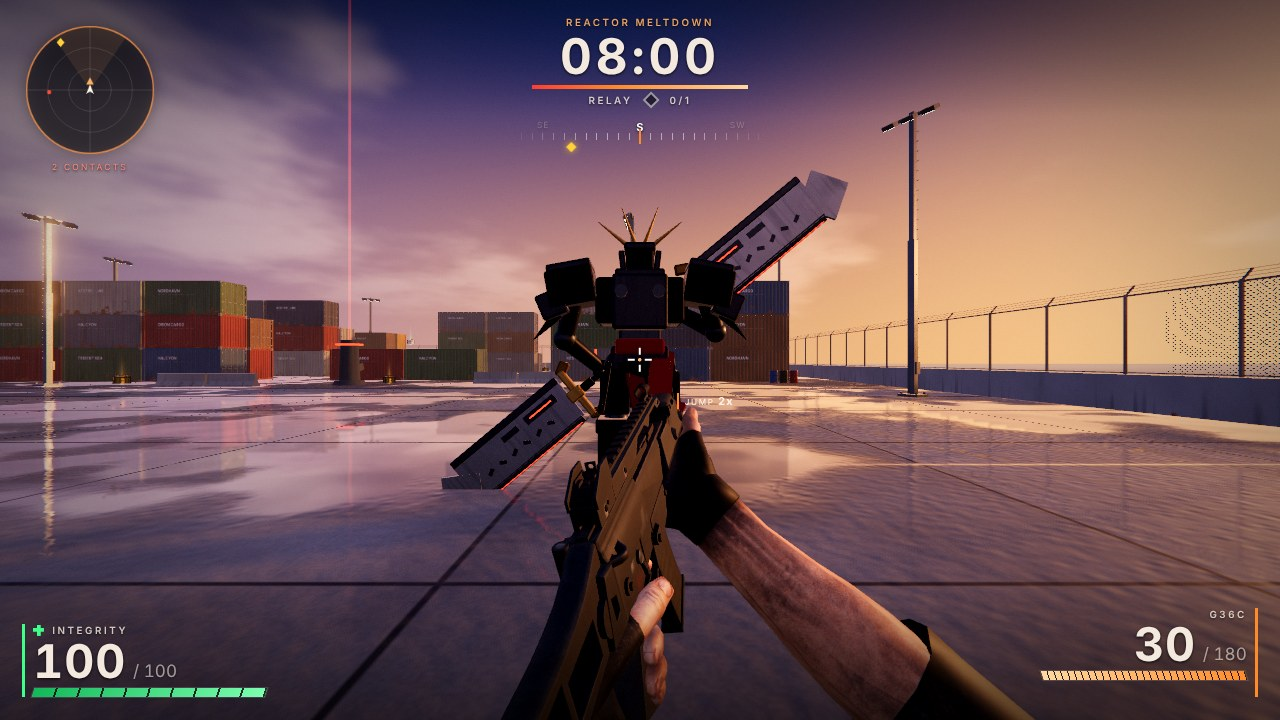
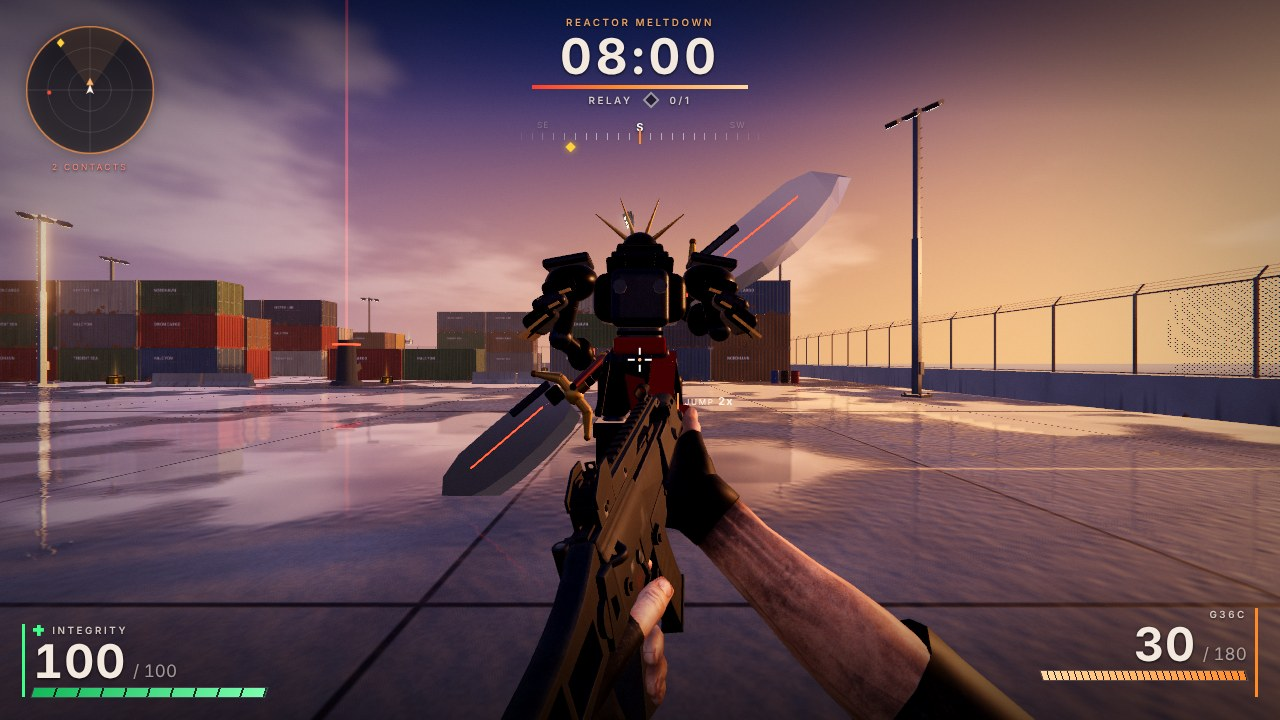
Samurai model pass: knife-section blades with ground bevels, rounder armour, layered shoulder plates, katana
Claude-Session: https://claude.ai/code/session_019Cd4QJJQAj7MtqAtZQe3gZ

diff --git a/src/enemies/samurai/model.ts b/src/enemies/samurai/model.ts
@@ -1,4 +1,4 @@
-import { BufferGeometry, Matrix4, Vector3 } from 'three';
+import { BufferAttribute, BufferGeometry, Matrix4, Vector3 } from 'three';
 import { box, cylX, Parts, rod, sphere } from '../duck/modelKit';
 import { SAMURAI } from './tunables';
 
@@ -16,7 +16,9 @@ export const SAMURAI_COLORS = {
   goldDark: 0x8a6a2a,
   red: 0x8c1717,
   redDark: 0x5c0f10,
-  steel: 0xa3a9b2,
+  steel: 0xb4bcc6,
+  /** Ground cutting bevel: almost white so it catches the sky. */
+  edge: 0xf2f6fa,
   steelDark: 0x4a4f58,
   wood: 0x2c1c13,
   glow: 0xffffff,
@@ -32,6 +34,8 @@ export interface SamuraiModel {
   hip: { x: number; y: number };
   /** Polearm authored along X around its grip centre. */
   weapon: BufferGeometry;
+  /** Both blades: mirror-polished, own material. */
+  blade: BufferGeometry;
   weaponGlow: BufferGeometry;
   /** Grip centre in the body frame and the rest angle about Z (right end up). */
   grip: Vector3;
@@ -49,39 +53,103 @@ function leg(side: 1 | -1, armor: Parts): void {
   const x = side * HIP_X;
   armor.add(sphere(0.17, 10, 8), C.gunmetal, [x, HIP_Y, 0]);
   armor.add(rod([x, HIP_Y, 0], [x + side * 0.03, 0.98, -0.06], 0.14, 0.12, 8), C.gunmetal);
-  armor.add(box(0.34, 0.5, 0.36, 0.03), C.black, [x + side * 0.04, 1.3, -0.05], [0.06, 0, 0]);
-  armor.add(box(0.2, 0.2, 0.1, 0.02), C.grey, [x + side * 0.03, 1.0, -0.24]);
+  armor.add(box(0.36, 0.52, 0.38, 0.12), C.black, [x + side * 0.04, 1.3, -0.05], [0.06, 0, 0]);
+  armor.add(sphere(0.14, 10, 8), C.grey, [x + side * 0.03, 0.98, -0.2], [0, 0, 0], [1, 1.15, 0.6]);
+  armor.add(rod([x + side * 0.03, 1.02, -0.26], [x + side * 0.03, 1.2, -0.42], 0.05, 0.004, 5), C.gold);
   armor.add(sphere(0.15, 10, 8), C.steelDark, [x + side * 0.03, 0.96, -0.04]);
   armor.add(rod([x + side * 0.03, 0.96, -0.04], [x + side * 0.04, 0.3, 0.02], 0.11, 0.1, 8), C.gunmetal);
-  armor.add(box(0.36, 0.7, 0.42, 0.03), C.black, [x + side * 0.05, 0.6, 0], [-0.04, 0, 0]);
+  armor.add(box(0.36, 0.7, 0.42, 0.13), C.black, [x + side * 0.05, 0.6, 0], [-0.04, 0, 0]);
   armor.add(box(0.4, 0.16, 0.46, 0.02), C.gunmetal, [x + side * 0.05, 0.92, 0]);
   armor.add(box(0.26, 0.5, 0.08, 0.02), C.grey, [x + side * 0.05, 0.6, -0.23]);
   armor.add(box(0.4, 0.2, 0.44, 0.03), C.gunmetal, [x + side * 0.05, 0.3, 0.02]);
-  armor.add(box(0.38, 0.2, 0.66, 0.04), C.black, [x + side * 0.05, 0.1, -0.1]);
+  armor.add(box(0.38, 0.2, 0.66, 0.08), C.black, [x + side * 0.05, 0.1, -0.1]);
   armor.add(box(0.3, 0.12, 0.2, 0.02), C.grey, [x + side * 0.05, 0.08, -0.46]);
   armor.add(box(0.26, 0.24, 0.16, 0.03), C.gunmetal, [x + side * 0.05, 0.14, 0.26]);
 }
 
-function blade(p: Parts, glow: Parts, dir: 1 | -1): void {
+/** Blade stations along its length: x, spine height, edge height, thickness. The last one is the point. */
+const STATIONS: ReadonlyArray<readonly [number, number, number, number]> = [
+  [0.0, 0.3, -0.26, 0.085],
+  [0.18, 0.34, -0.33, 0.08],
+  [0.6, 0.35, -0.385, 0.072],
+  [1.05, 0.35, -0.4, 0.062],
+  [1.45, 0.34, -0.37, 0.05],
+  [1.78, 0.25, -0.3, 0.036],
+  [2.0, 0.02, -0.19, 0.018],
+  [2.12, -0.13, -0.13, 0.0],
+];
+/** Width of the ground bevel above the cutting edge (m). */
+const BEVEL = 0.17;
+
+/**
+ * Glaive blade as a real knife section instead of a slab: flat spine, two flats, and two ground
+ * bevels that meet in a zero-thickness cutting edge; the section shrinks to a point at the tip.
+ * Returns the flats (with the spine) and the bevels separately so they can be coloured apart.
+ * Faces are not shared between quads, so every facet stays crisp.
+ */
+function bladeGeometry(dir: 1 | -1, x0: number): { flats: BufferGeometry; bevels: BufferGeometry } {
+  const flats: number[] = [];
+  const bevels: number[] = [];
+  type P = [number, number, number];
+  const ring = (st: readonly [number, number, number, number]): P[] => {
+    const [x, top, edge, t] = st;
+    const mid = Math.min(top, edge + BEVEL);
+    const px = x0 + dir * x;
+    // spine +z, spine -z, shoulder -z, cutting edge, shoulder +z
+    return [
+      [px, top, t / 2],
+      [px, top, -t / 2],
+      [px, mid, -t / 2],
+      [px, edge, 0],
+      [px, mid, t / 2],
+    ];
+  };
+  const quad = (out: number[], a: P, b: P, c: P, d: P): void => {
+    // winding follows the blade direction so the faces point outwards on both blades
+    if (dir === 1) out.push(...a, ...b, ...c, ...a, ...c, ...d);
+    else out.push(...a, ...c, ...b, ...a, ...d, ...c);
+  };
+  for (let k = 0; k < STATIONS.length - 1; k++) {
+    const a = ring(STATIONS[k] as (typeof STATIONS)[number]);
+    const b = ring(STATIONS[k + 1] as (typeof STATIONS)[number]);
+    for (let j = 0; j < 5; j++) {
+      const j1 = (j + 1) % 5;
+      const target = j === 2 || j === 3 ? bevels : flats;
+      quad(target, a[j] as P, b[j] as P, b[j1] as P, a[j1] as P);
+    }
+  }
+  // heel cap at the guard
+  const h = ring(STATIONS[0] as (typeof STATIONS)[number]);
+  quad(flats, h[0] as P, h[4] as P, h[2] as P, h[1] as P);
+  quad(flats, h[4] as P, h[3] as P, h[2] as P, h[2] as P);
+  const make = (arr: number[]): BufferGeometry => {
+    const g = new BufferGeometry();
+    g.setAttribute('position', new BufferAttribute(new Float32Array(arr), 3));
+    g.computeVertexNormals();
+    return g;
+  };
+  return { flats: make(flats), bevels: make(bevels) };
+}
+
+function blade(p: Parts, steel: Parts, glow: Parts, dir: 1 | -1): void {
   const x0 = dir * 1.06;
-  // gold cross guard: bar, bevelled ends, collar
-  p.add(box(0.1, 0.72, 0.12, 0.03), C.gold, [x0, 0, 0]);
-  p.add(box(0.22, 0.16, 0.14, 0.03), C.gold, [x0 + dir * 0.02, 0, 0]);
-  for (const s of [-1, 1]) p.add(box(0.2, 0.14, 0.1, 0.03), C.goldDark, [x0 - dir * 0.05, s * 0.36, 0], [0, 0, dir * s * -0.5]);
-  p.add(cylX(0.06, 0.2, 10), C.wood, [x0 - dir * 0.16, 0, 0]);
-  // cleaver: spine, body, bevelled edge, clipped tip
-  const len = 1.75;
-  const cx = x0 + dir * (0.1 + len / 2);
-  p.add(box(len, 0.6, 0.05, 0.012), C.steel, [cx, 0.02, 0]);
-  p.add(box(len, 0.1, 0.075, 0.02), C.steelDark, [cx, 0.3, 0]);
-  p.add(box(len * 0.96, 0.1, 0.02), C.grey, [cx, -0.3, 0], [0.5, 0, 0]);
-  p.add(box(0.5, 0.5, 0.05, 0.012), C.steel, [x0 + dir * (0.1 + len + 0.12), -0.07, 0], [0, 0, dir * 0.55]);
-  // dark inlays and rune strip
-  p.add(box(0.5, 0.12, 0.06), C.steelDark, [x0 + dir * 0.5, 0.14, 0]);
-  p.add(box(0.26, 0.08, 0.06), C.steelDark, [x0 + dir * 1.0, 0.14, 0]);
-  for (let i = 0; i < 6; i++) p.add(box(0.1, 0.05, 0.058), C.steelDark, [x0 + dir * (0.5 + i * 0.2), -0.08, 0], [0, 0, i % 2 ? 0.5 : -0.5]);
-  glow.add(box(0.36, 0.02, 0.064), C.glow, [x0 + dir * 0.5, 0.14, 0]);
-  glow.add(box(len * 0.9, 0.012, 0.03), C.glow, [cx, -0.335, 0]);
+  // gold cross guard: bar with swept ends, rounded collar and a pommel ring on the shaft
+  p.add(box(0.12, 0.6, 0.14, 0.05), C.gold, [x0, 0, 0]);
+  p.add(sphere(0.12, 10, 8), C.gold, [x0, 0, 0], [0, 0, 0], [1, 1.1, 0.8]);
+  for (const s of [-1, 1]) {
+    p.add(rod([x0, s * 0.26, 0], [x0 + dir * 0.2, s * 0.5, 0], 0.07, 0.035, 8), C.gold);
+    p.add(sphere(0.045, 8, 6), C.goldDark, [x0 + dir * 0.21, s * 0.51, 0]);
+  }
+  p.add(cylX(0.07, 0.16, 12), C.goldDark, [x0 - dir * 0.13, 0, 0]);
+  p.add(cylX(0.055, 0.1, 12), C.black, [x0 - dir * 0.26, 0, 0]);
+  const bx = x0 + dir * 0.1;
+  const g = bladeGeometry(dir, bx);
+  steel.add(g.flats, C.steel);
+  steel.add(g.bevels, C.edge);
+  // dark spine cladding near the guard, fuller (blood groove) glowing along the flat
+  p.add(box(0.62, 0.11, 0.1, 0.03), C.steelDark, [bx + dir * 0.34, 0.3, 0]);
+  p.add(box(0.2, 0.22, 0.1, 0.03), C.black, [bx + dir * 0.08, 0.14, 0]);
+  for (const z of [-1, 1]) glow.add(box(1.25, 0.02, 0.01), C.glow, [bx + dir * 0.82, 0.12, z * 0.034], [0, 0, dir * -0.012]);
 }
 
 /** Builds every samurai geometry once. */
@@ -92,7 +160,7 @@ export function buildSamuraiModel(): SamuraiModel {
   const b = new Parts();
   const g = new Parts();
   // pelvis and armour skirt
-  b.add(box(0.66, 0.3, 0.44, 0.04), C.gunmetal, [0, 1.68, 0]);
+  b.add(box(0.66, 0.3, 0.44, 0.1), C.gunmetal, [0, 1.68, 0]);
   b.add(box(0.5, 0.56, 0.07, 0.02), C.black, [0, 1.36, -0.27], [0.14, 0, 0]);
   b.add(box(0.5, 0.5, 0.07, 0.02), C.black, [0, 1.4, 0.26], [-0.14, 0, 0]);
   for (const s of [-1, 1]) {
@@ -100,16 +168,25 @@ export function buildSamuraiModel(): SamuraiModel {
     b.add(box(0.075, 0.1, 0.46, 0.02), C.gunmetal, [s * 0.44, 1.12, 0], [0, 0, s * 0.16]);
   }
   // waist, chest, collar
-  b.add(box(0.48, 0.32, 0.38, 0.04), C.steelDark, [0, 1.96, 0]);
-  b.add(box(1.0, 0.52, 0.6, 0.05), C.black, [0, 2.34, 0]);
+  b.add(box(0.48, 0.34, 0.38, 0.12), C.steelDark, [0, 1.96, 0]);
+  for (let i = 0; i < 3; i++) b.add(box(0.5, 0.05, 0.4, 0.02), C.black, [0, 1.86 + i * 0.1, 0]);
+  b.add(box(1.0, 0.54, 0.62, 0.16), C.black, [0, 2.34, 0]);
+  // chest core behind a grille
+  g.add(sphere(0.085, 10, 8), C.glow, [0, 2.2, -0.31], [0, 0, 0], [1, 1, 0.4]);
+  b.add(box(0.26, 0.05, 0.05, 0.02), C.gold, [0, 2.12, -0.33]);
   b.add(box(0.7, 0.3, 0.1, 0.03), C.gunmetal, [0, 2.38, -0.3], [-0.12, 0, 0]);
   for (let i = 0; i < 3; i++) b.add(box(0.46, 0.04, 0.05), C.grey, [0, 2.28 + i * 0.085, -0.345]);
   b.add(box(0.56, 0.14, 0.5, 0.03), C.gunmetal, [0, 2.63, 0.02]);
-  b.add(box(0.6, 0.6, 0.26, 0.04), C.gunmetal, [0, 2.3, 0.38]);
+  b.add(box(0.6, 0.6, 0.26, 0.1), C.gunmetal, [0, 2.3, 0.38]);
   for (const s of [-1, 1]) b.add(cylX(0.07, 0.12, 8), C.steelDark, [s * 0.2, 2.4, 0.52], [0, Math.PI / 2, 0]);
   // head: helmet, face mask, gold crest
-  b.add(box(0.32, 0.3, 0.36, 0.05), C.black, [0, 2.84, -0.02]);
-  b.add(box(0.36, 0.1, 0.4, 0.03), C.gunmetal, [0, 2.96, 0]);
+  b.add(sphere(0.21, 14, 10), C.black, [0, 2.88, 0], [0, 0, 0], [1, 0.95, 1.12]);
+  b.add(box(0.3, 0.22, 0.34, 0.08), C.black, [0, 2.78, -0.02]);
+  b.add(box(0.46, 0.05, 0.5, 0.02), C.gunmetal, [0, 2.9, 0.03], [0.12, 0, 0]);
+  // layered neck guard flaring out behind the helmet
+  for (let i = 0; i < 3; i++) b.add(box(0.5 + i * 0.1, 0.07, 0.3, 0.03), i % 2 ? C.gunmetal : C.black, [0, 2.78 - i * 0.07, 0.16 + i * 0.05], [-0.5, 0, 0]);
+  // fangs on the mask
+  for (const fx of [-0.06, 0.06]) b.add(rod([fx, 2.72, -0.26], [fx * 1.2, 2.63, -0.27], 0.02, 0.003, 5), C.gold);
   b.add(box(0.22, 0.15, 0.1, 0.03), C.gunmetal, [0, 2.76, -0.2]);
   b.add(box(0.08, 0.1, 0.08, 0.02), C.grey, [0, 2.72, -0.25]);
   for (const s of [-1, 1]) {
@@ -121,12 +198,16 @@ export function buildSamuraiModel(): SamuraiModel {
   b.add(box(0.1, 0.12, 0.06, 0.02), C.gold, [0, 2.98, -0.2]);
   // pauldrons with light strips and spikes
   for (const s of [-1, 1]) {
-    b.add(box(0.54, 0.42, 0.6, 0.04), C.black, [s * 0.78, 2.5, 0], [0, 0, s * -0.18]);
-    b.add(box(0.5, 0.1, 0.64, 0.03), C.gunmetal, [s * 0.8, 2.72, 0], [0, 0, s * -0.18]);
-    b.add(box(0.3, 0.3, 0.5, 0.03), C.gunmetal, [s * 1.0, 2.3, 0], [0, 0, s * -0.4]);
+    b.add(sphere(0.3, 14, 10), C.black, [s * 0.76, 2.52, 0], [0, 0, s * -0.18], [1, 0.72, 1.05]);
+    // three overlapping shoulder plates, each a little lower and wider
+    for (let i = 0; i < 3; i++) {
+      b.add(box(0.36, 0.2, 0.6 + i * 0.04, 0.07), i === 1 ? C.gunmetal : C.black, [s * (0.86 + i * 0.1), 2.44 - i * 0.16, 0], [0, 0, s * (-0.35 - i * 0.16)]);
+      b.add(box(0.37, 0.03, 0.62 + i * 0.04, 0.012), C.gold, [s * (0.9 + i * 0.105), 2.35 - i * 0.165, 0], [0, 0, s * (-0.35 - i * 0.16)]);
+    }
+    b.add(box(0.5, 0.1, 0.62, 0.04), C.gunmetal, [s * 0.78, 2.72, 0], [0, 0, s * -0.18]);
     b.add(rod([s * 0.95, 2.2, 0.1], [s * 1.2, 1.9, 0.2], 0.07, 0.005, 5), C.black);
     g.add(box(0.26, 0.04, 0.02), C.glow, [s * 0.8, 2.6, -0.305], [0, 0, s * -0.18]);
-    g.add(box(0.04, 0.2, 0.02), C.glow, [s * 1.0, 2.44, -0.3], [0, 0, s * -0.4]);
+    g.add(box(0.04, 0.16, 0.02), C.glow, [s * 0.98, 2.42, -0.315], [0, 0, s * -0.4]);
   }
   // arms: right hand high, left hand low on the shaft
   const hands: Array<[1 | -1, [number, number, number], [number, number, number]]> = [
@@ -137,10 +218,16 @@ export function buildSamuraiModel(): SamuraiModel {
     b.add(rod([s * 0.78, 2.4, 0], elbow, 0.13, 0.11, 8), C.gunmetal);
     b.add(sphere(0.14, 10, 8), C.steelDark, elbow);
     b.add(rod(elbow, hand, 0.12, 0.1, 8), C.black);
-    b.add(box(0.2, 0.2, 0.22, 0.04), C.gunmetal, hand);
+    b.add(box(0.22, 0.22, 0.24, 0.08), C.gunmetal, hand);
+    b.add(sphere(0.16, 10, 8), C.black, [(elbow[0] + hand[0]) / 2, (elbow[1] + hand[1]) / 2, (elbow[2] + hand[2]) / 2], [0, 0, 0], [1, 1.25, 1]);
     b.add(box(0.22, 0.1, 0.24, 0.02), C.black, [hand[0], hand[1] + 0.06, hand[2]]);
     g.add(box(0.03, 0.1, 0.02), C.glow, [hand[0] + s * 0.06, hand[1] + 0.2, hand[2] + 0.1]);
   }
+  // sheathed katana on the left hip
+  b.add(rod([-0.44, 1.7, -0.34], [-0.62, 1.42, 0.86], 0.045, 0.036, 8), C.redDark);
+  b.add(rod([-0.44, 1.7, -0.34], [-0.4, 1.76, -0.62], 0.032, 0.03, 8), C.black);
+  b.add(sphere(0.07, 10, 6), C.gold, [-0.44, 1.7, -0.34], [0.25, 0, 0], [1, 1, 0.3]);
+  b.add(sphere(0.04, 8, 6), C.gold, [-0.4, 1.76, -0.63]);
   const body = b.merge(down);
   const bodyGlow = g.merge(down);
 
@@ -156,11 +243,13 @@ export function buildSamuraiModel(): SamuraiModel {
   // ---- polearm ----------------------------------------------------------------------------
   const w = new Parts();
   const wg = new Parts();
-  w.add(cylX(0.04, 2.3, 10), C.wood, [0, 0, 0]);
-  for (const x of [-0.5, 0, 0.5]) w.add(cylX(0.048, 0.1, 10), C.black, [x, 0, 0]);
-  blade(w, wg, 1);
-  blade(w, wg, -1);
+  const ws = new Parts();
+  w.add(cylX(0.04, 2.3, 12), C.wood, [0, 0, 0]);
+  for (const x of [-0.62, -0.5, 0, 0.5, 0.62]) w.add(cylX(0.05, 0.07, 12), x === 0 ? C.gold : C.black, [x, 0, 0]);
+  blade(w, ws, wg, 1);
+  blade(w, ws, wg, -1);
   const weapon = w.merge();
+  const bladeGeo = ws.merge();
   const weaponGlow = wg.merge();
 
   // ---- sash -------------------------------------------------------------------------------
@@ -181,6 +270,7 @@ export function buildSamuraiModel(): SamuraiModel {
     legR,
     hip: { x: HIP_X, y: HIP_Y - SAMURAI.centerHeight },
     weapon,
+    blade: bladeGeo,
     weaponGlow,
     grip: new Vector3(0, 1.92 - SAMURAI.centerHeight, -0.58),
     restAngle: 0.68,

diff --git a/src/enemies/samurai/Samurai.ts b/src/enemies/samurai/Samurai.ts
@@ -152,7 +152,11 @@ export class Samurai extends BaseEnemy {
     this.model.add(this.legL, this.legR);
     const blade = new Mesh(geo('weapon', m.weapon), armor);
     blade.castShadow = true;
-    this.weapon.add(blade, new Mesh(geo('weaponGlow', m.weaponGlow), this.glow));
+    // blades: mirror steel with a bright ground bevel, no paint wear
+    const bladeMat = shared.get('samurai:blade-mat', () => createVertexColorMaterial(0.2, 0.9));
+    const edge = new Mesh(geo('blade', m.blade), bladeMat);
+    edge.castShadow = true;
+    this.weapon.add(blade, edge, new Mesh(geo('weaponGlow', m.weaponGlow), this.glow));
     this.weapon.position.copy(m.grip);
     this.weapon.rotation.z = m.restAngle;
     this.model.add(this.weapon);
@@ -162,7 +166,7 @@ export class Samurai extends BaseEnemy {
     // blur disc of the spinning polearm
     this.fanMat = new MeshBasicMaterial({ color: 0xffffff, transparent: true, opacity: 0, depthWrite: false, blending: AdditiveBlending, side: DoubleSide, fog: false });
     this.fanMat.color.setRGB(0.55, 0.3, 0.26);
-    this.fan = new Mesh(shared.get('samurai:fan-geo', () => new CircleGeometry(2.95, 40)), this.fanMat);
+    this.fan = new Mesh(shared.get('samurai:fan-geo', () => new CircleGeometry(3.25, 40)), this.fanMat);
     this.fan.position.copy(m.grip);
     this.fan.visible = false;
     this.fan.userData.noReflect = true;
